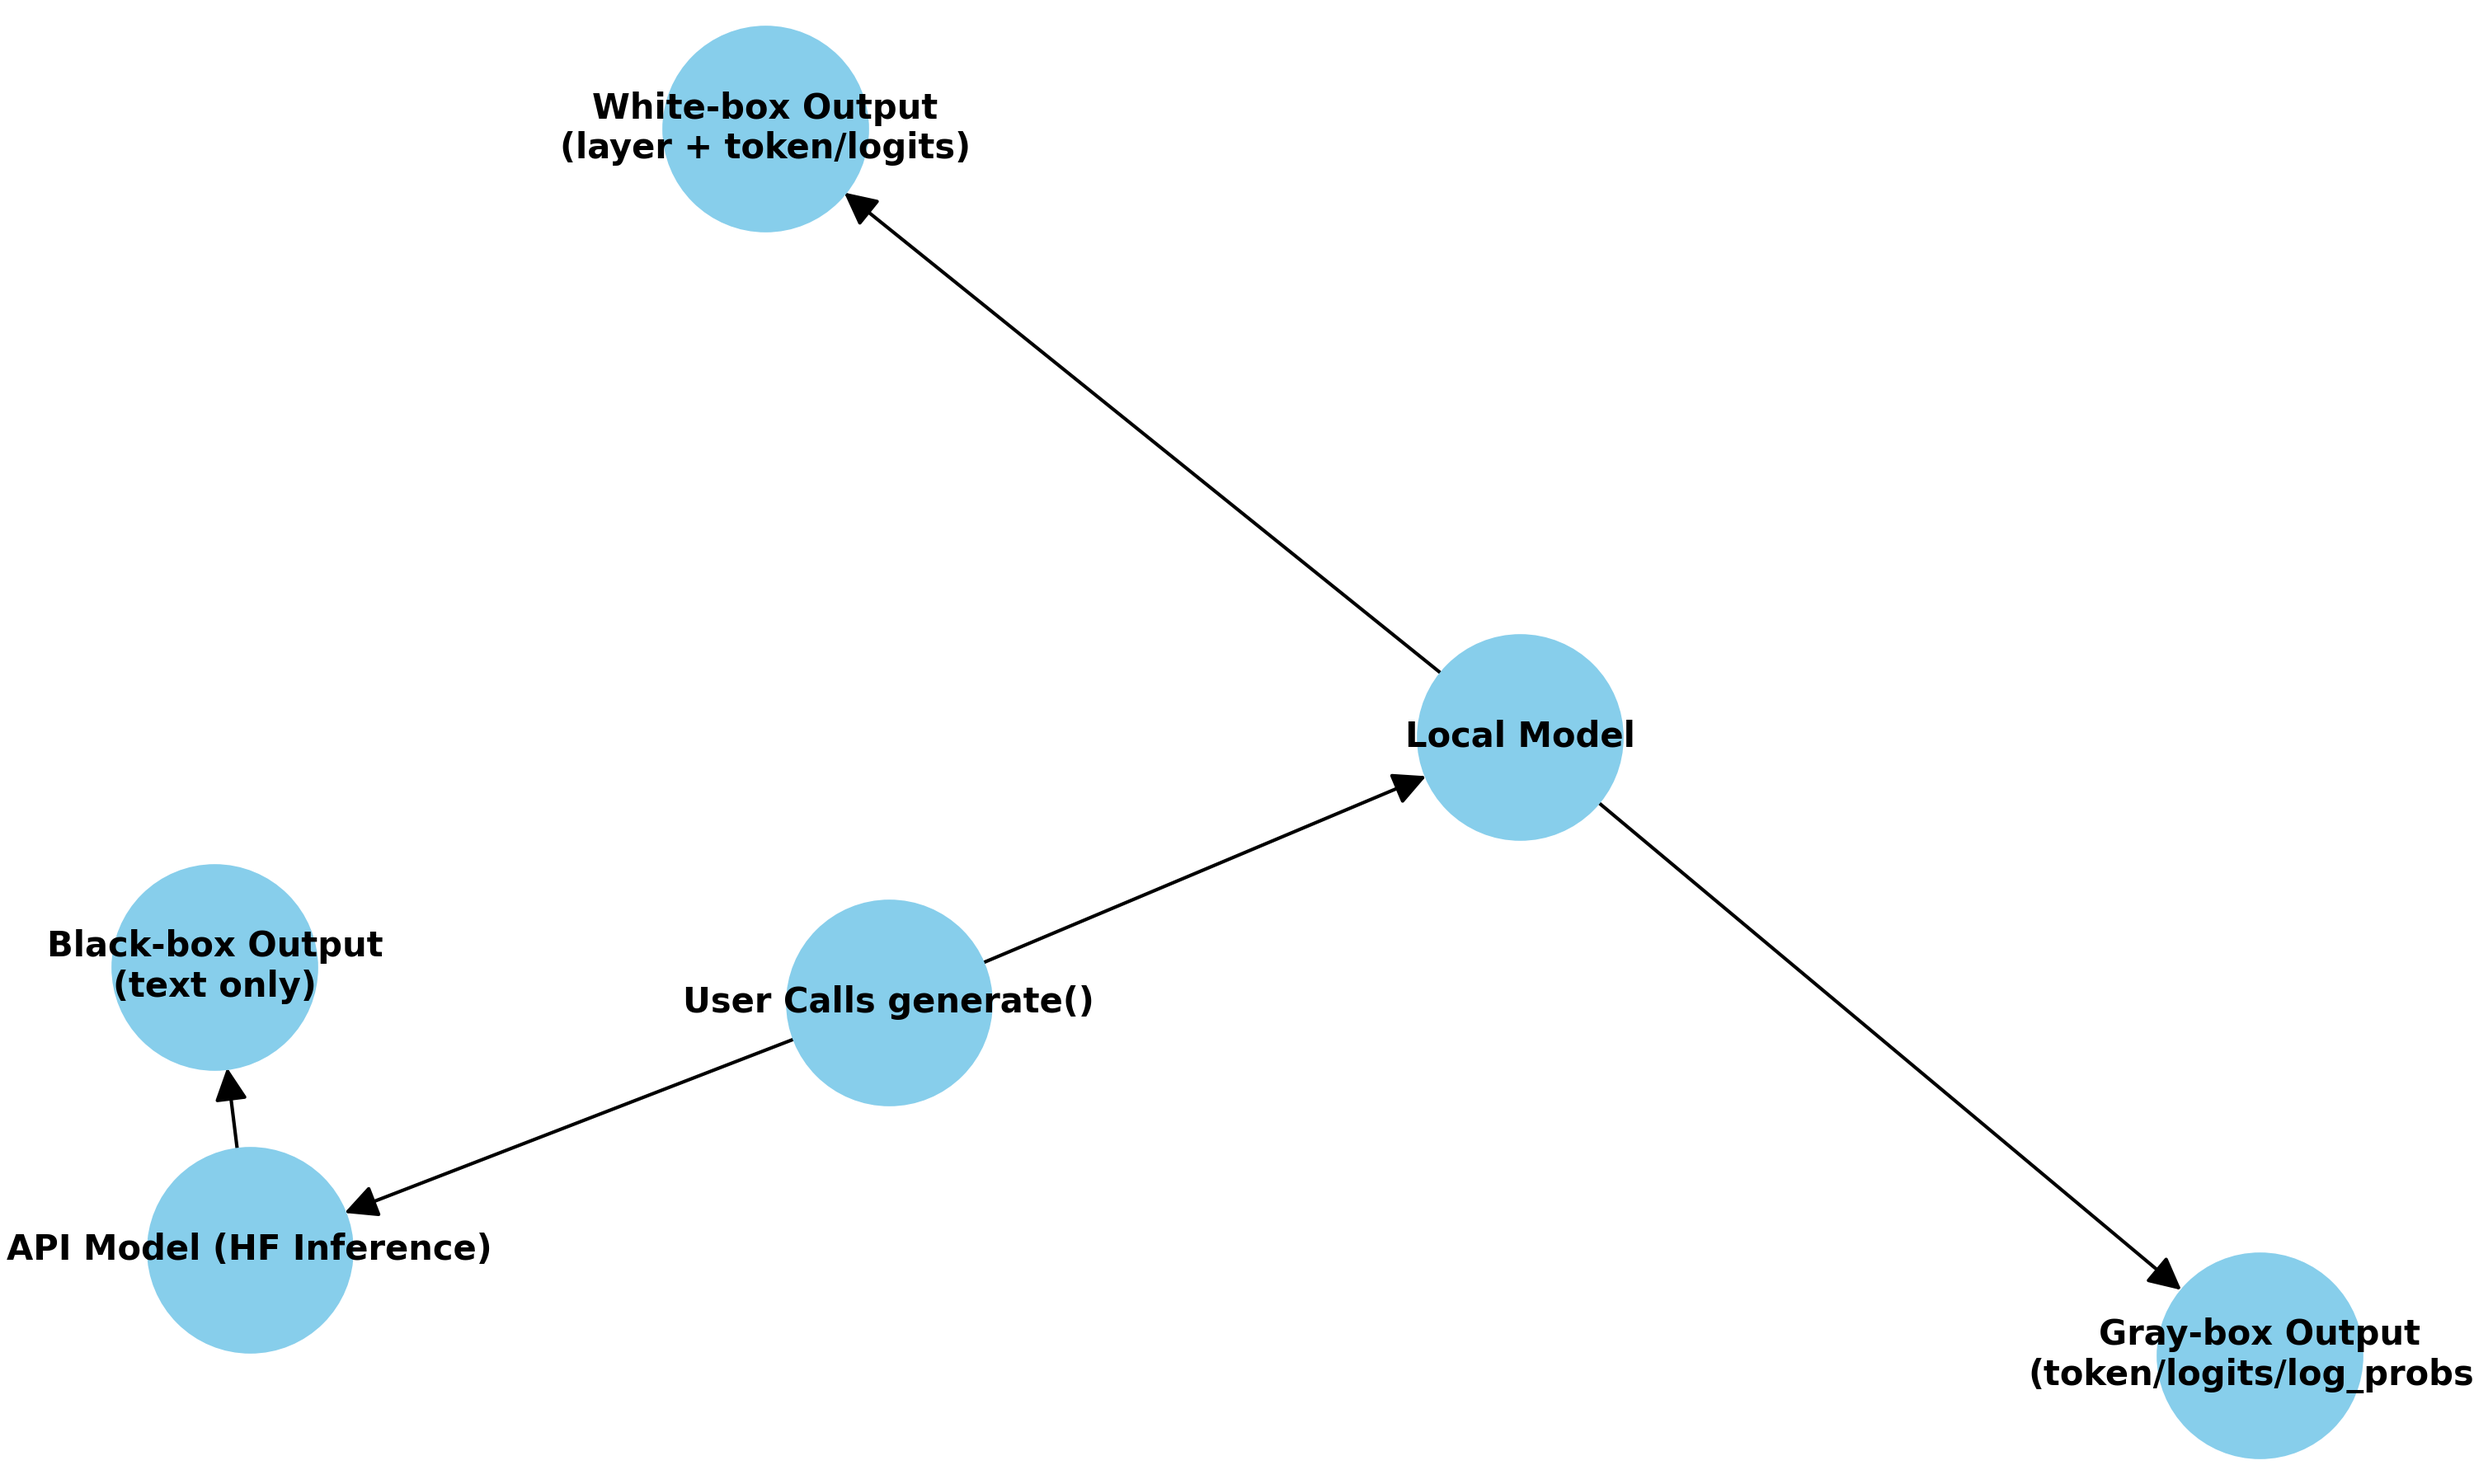
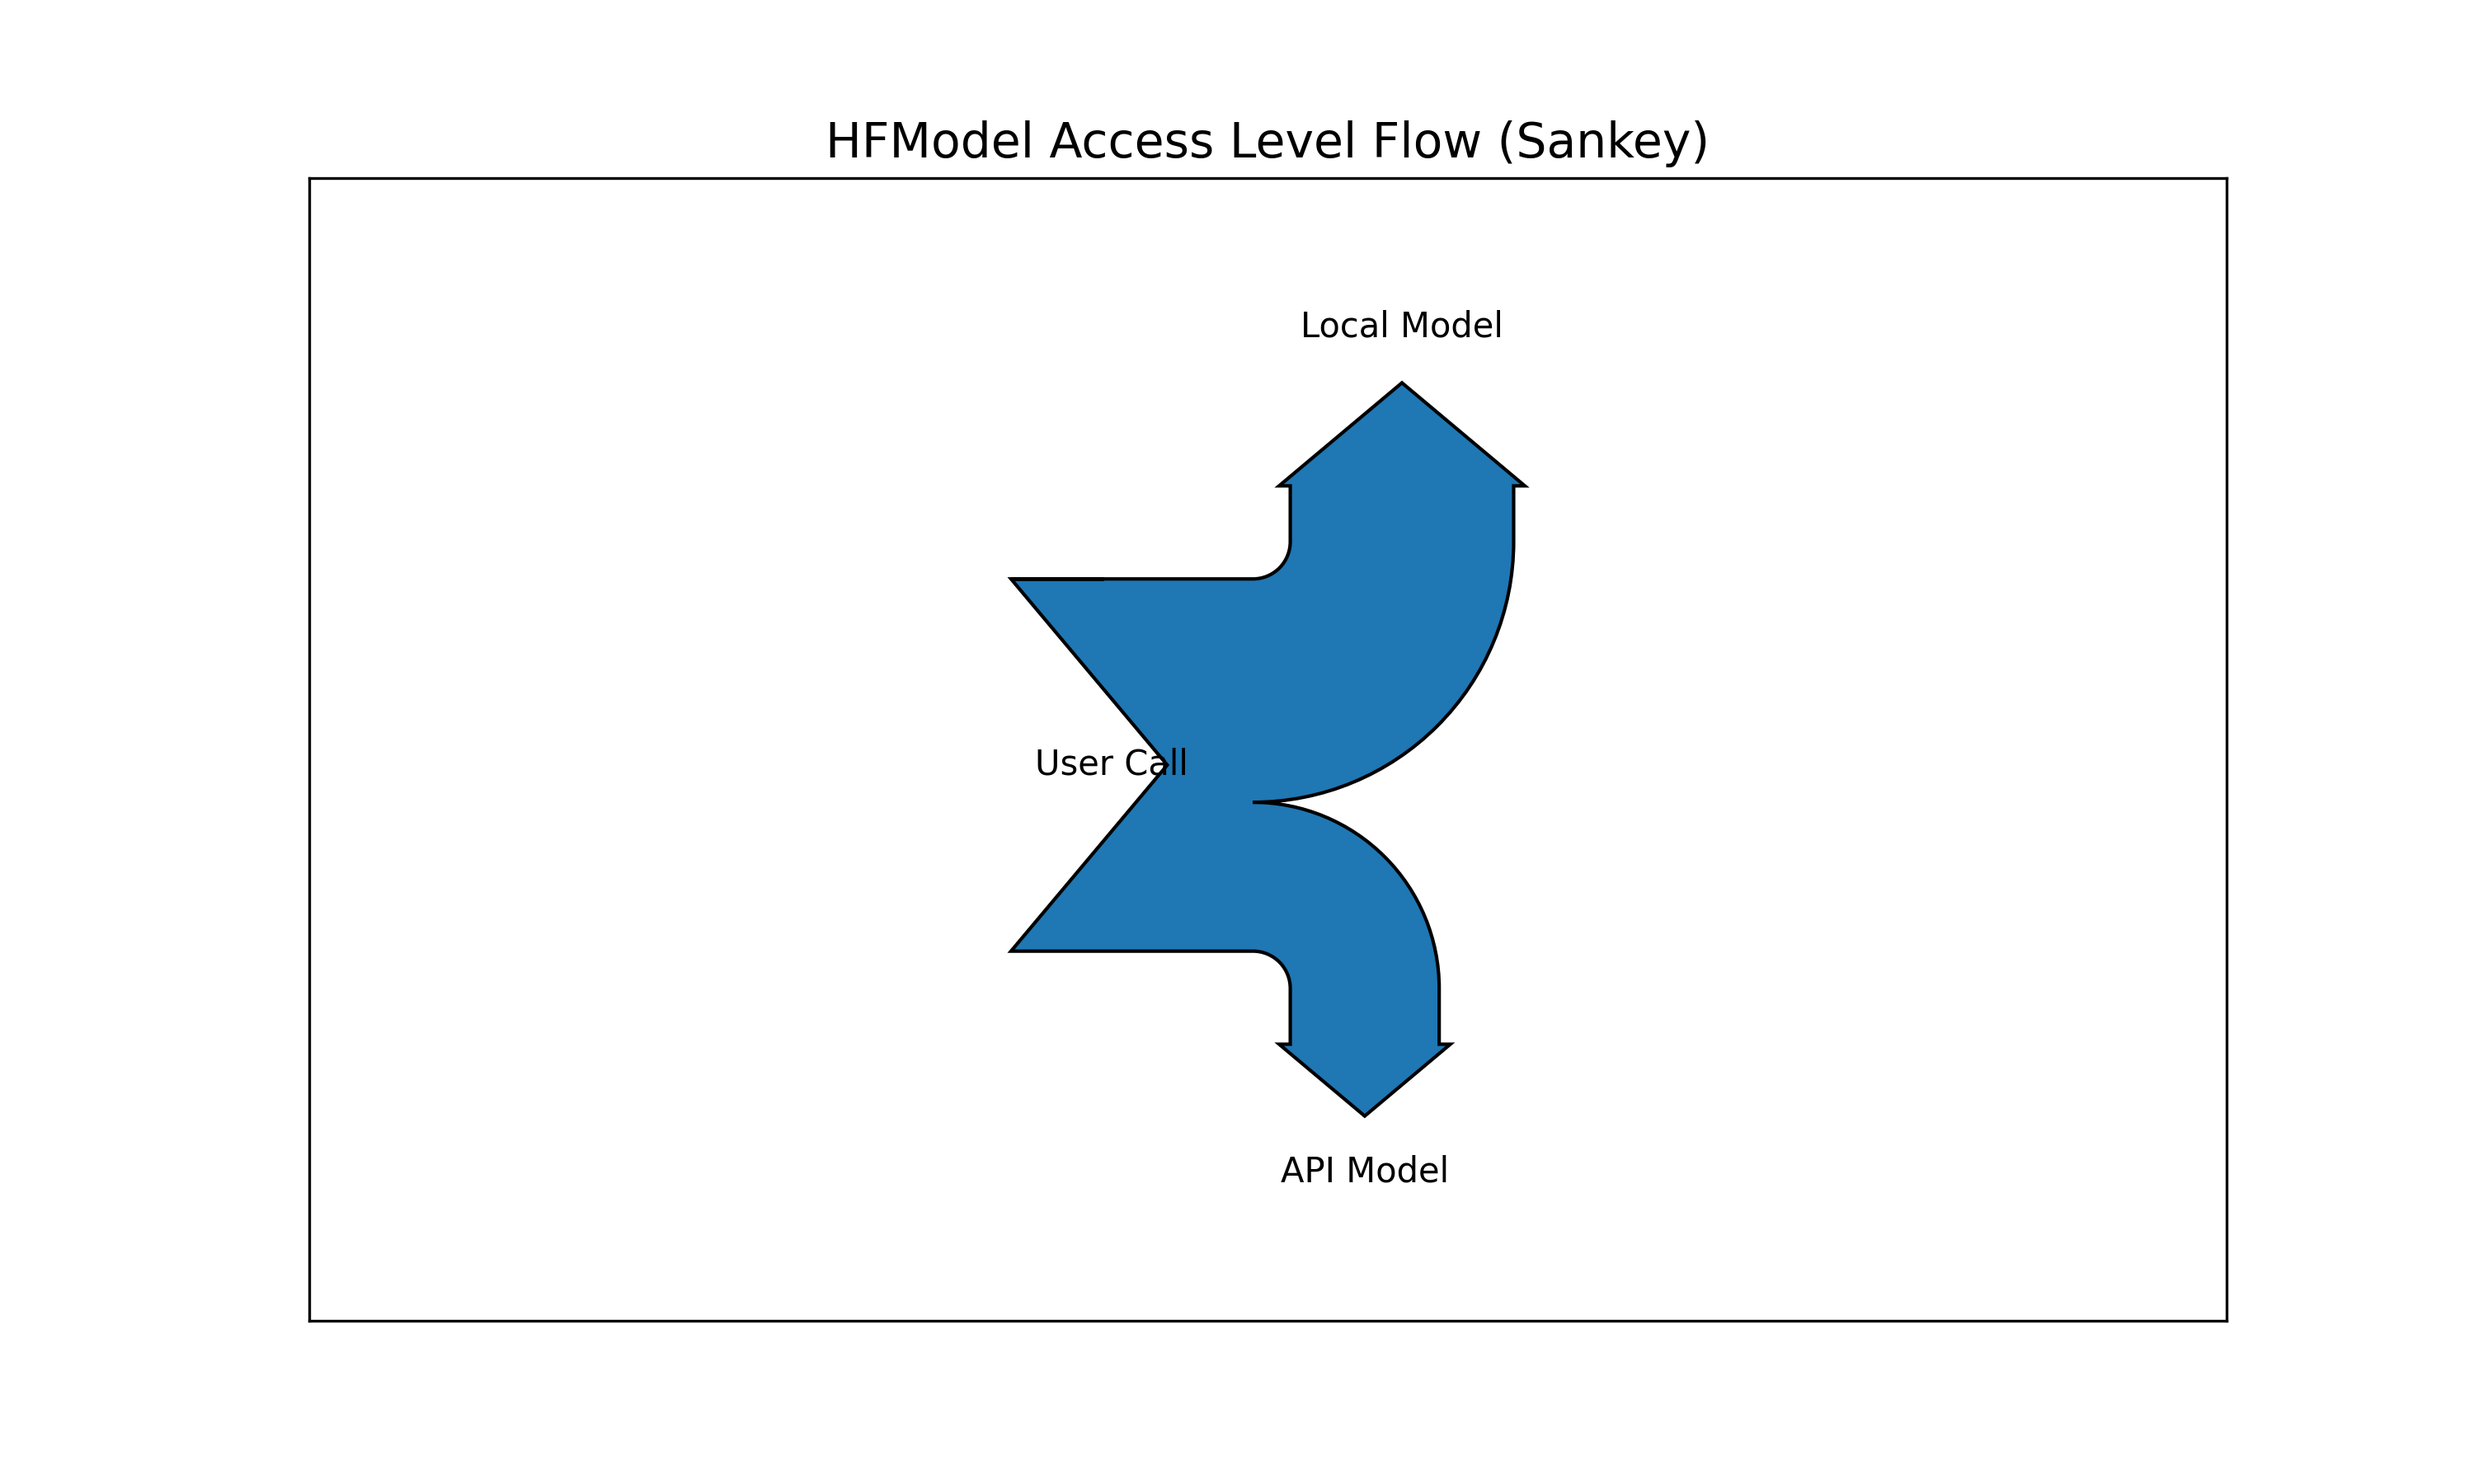
istatistiksel grafik oluşturma eklendi

diff --git a/visualization/local_model_flow.py b/visualization/local_model_flow.py
@@ -1,40 +1,34 @@
-# local_model_flow.py
+import numpy as np
 import matplotlib.pyplot as plt
-import networkx as nx
+import seaborn as sns
 
 class LocalModelFlow:
-    def __init__(self, output_path="local_model_flow.png"):
-        self.output_path = output_path
+    def __init__(self, output_path_heat="local_model_heatmap.png", output_path_violin="local_model_violin.png"):
+        self.output_path_heat = output_path_heat
+        self.output_path_violin = output_path_violin
 
     def generate(self):
-        G = nx.DiGraph()
-        
-        G.add_node("Prompt Text")
-        G.add_node("Tokenizer")
-        G.add_node("Token IDs")
-        G.add_node("Local Model (Causal LM)")
-        G.add_node("Output Sequences")
-        G.add_node("Logits per Step")
-        G.add_node("Log Probs per Step")
-        G.add_node("ModelOutput Object")
-        
-        G.add_edges_from([
-            ("Prompt Text", "Tokenizer"),
-            ("Tokenizer", "Token IDs"),
-            ("Token IDs", "Local Model (Causal LM)"),
-            ("Local Model (Causal LM)", "Output Sequences"),
-            ("Local Model (Causal LM)", "Logits per Step"),
-            ("Logits per Step", "Log Probs per Step"),
-            ("Output Sequences", "ModelOutput Object"),
-            ("Log Probs per Step", "ModelOutput Object"),
-            ("Logits per Step", "ModelOutput Object"),
-            ("Token IDs", "ModelOutput Object")
-        ])
-        
-        pos = nx.spring_layout(G, seed=7)
-        plt.figure(figsize=(12,7))
-        nx.draw(G, pos, with_labels=True, node_size=4000, node_color='lightgreen', font_size=10, font_weight='bold', arrowsize=20)
-        plt.title("Local Model Token/Logit Flow", fontsize=14)
-        plt.savefig(self.output_path, dpi=300)
+        # Simüle edilmiş logit verisi: 10 token, 20 vocabulary
+        np.random.seed(42)
+        logits = np.random.randn(10, 20)
+
+        # Heatmap
+        plt.figure(figsize=(10,6))
+        sns.heatmap(logits, annot=True, fmt=".2f", cmap="viridis", cbar_kws={'label': 'Logit Score'})
+        plt.xlabel("Vocabulary ID")
+        plt.ylabel("Token Step")
+        plt.title("Local Model Logits Heatmap")
+        plt.savefig(self.output_path_heat, dpi=300)
         plt.close()
-        print(f"Local model flow diagram saved as {self.output_path}")
+        print(f"Local model heatmap saved as {self.output_path_heat}")
+
+        # Violin plot (log_probs distribution)
+        log_probs = np.exp(logits) / np.exp(logits).sum(axis=1, keepdims=True)
+        plt.figure(figsize=(10,6))
+        sns.violinplot(data=log_probs, palette="coolwarm")
+        plt.xlabel("Vocabulary ID")
+        plt.ylabel("Probability")
+        plt.title("Local Model Token Probabilities (Violin)")
+        plt.savefig(self.output_path_violin, dpi=300)
+        plt.close()
+        print(f"Local model violin plot saved as {self.output_path_violin}")

diff --git a/visualization/api_model_flow.py b/visualization/api_model_flow.py
@@ -1,29 +1,39 @@
 # api_model_flow.py
 import matplotlib.pyplot as plt
-import networkx as nx
+import numpy as np
+import pandas as pd
+import seaborn as sns
 
 class ApiModelFlow:
-    def __init__(self, output_path="api_model_flow.png"):
-        self.output_path = output_path
+    def __init__(self, output_path_bar="api_model_bar.png", output_path_line="api_model_line.png"):
+        self.output_path_bar = output_path_bar
+        self.output_path_line = output_path_line
 
     def generate(self):
-        G = nx.DiGraph()
-        
-        G.add_node("Prompt Text")
-        G.add_node("API Call (HF Inference)")
-        G.add_node("Generated Text Only")
-        G.add_node("ModelOutput Object")
-        
-        G.add_edges_from([
-            ("Prompt Text", "API Call (HF Inference)"),
-            ("API Call (HF Inference)", "Generated Text Only"),
-            ("Generated Text Only", "ModelOutput Object")
-        ])
-        
-        pos = nx.spring_layout(G, seed=15)
-        plt.figure(figsize=(10,5))
-        nx.draw(G, pos, with_labels=True, node_size=3500, node_color='orange', font_size=10, font_weight='bold', arrowsize=20)
-        plt.title("API Model Flow (Black-box)", fontsize=14)
-        plt.savefig(self.output_path, dpi=300)
+        # Simüle edilmiş token frekansı
+        token_ids = np.random.randint(0, 20, size=100)
+        token_counts = pd.Series(token_ids).value_counts().sort_index()
+
+        # Bar chart
+        plt.figure(figsize=(10,6))
+        sns.barplot(x=token_counts.index, y=token_counts.values, palette="magma")
+        plt.xlabel("Token ID")
+        plt.ylabel("Frequency")
+        plt.title("API Model Generated Token Frequencies")
+        plt.savefig(self.output_path_bar, dpi=300)
         plt.close()
-        print(f"API model flow diagram saved as {self.output_path}")
+        print(f"API model bar chart saved as {self.output_path_bar}")
+
+        # Line chart (simüle edilmiş temperature vs entropy)
+        temperatures = np.linspace(0.1, 2.0, 10)
+        entropy = np.log(temperatures + 1) + np.random.rand(10)*0.1
+
+        plt.figure(figsize=(8,5))
+        plt.plot(temperatures, entropy, marker='o', linestyle='-', color='teal')
+        plt.xlabel("Temperature")
+        plt.ylabel("Entropy")
+        plt.title("Temperature vs Entropy (Simulated)")
+        plt.grid(True)
+        plt.savefig(self.output_path_line, dpi=300)
+        plt.close()
+        print(f"API model line chart saved as {self.output_path_line}")

diff --git a/visualization/access_flow_diagram.py b/visualization/access_flow_diagram.py
@@ -1,31 +1,20 @@
 # access_flow_diagram.py
 import matplotlib.pyplot as plt
-import networkx as nx
+from matplotlib.sankey import Sankey
+
 
 class AccessFlowDiagram:
     def __init__(self, output_path="access_flow.png"):
         self.output_path = output_path
 
     def generate(self):
-        G = nx.DiGraph()
-        
-        G.add_node("User Calls generate()")
-        G.add_node("Local Model")
-        G.add_node("API Model (HF Inference)")
-        G.add_node("Black-box Output\n(text only)")
-        G.add_node("Gray-box Output\n(token/logits/log_probs)")
-        G.add_node("White-box Output\n(layer + token/logits)")
-        
-        G.add_edge("User Calls generate()", "Local Model")
-        G.add_edge("User Calls generate()", "API Model (HF Inference)")
-        G.add_edge("Local Model", "Gray-box Output\n(token/logits/log_probs)")
-        G.add_edge("Local Model", "White-box Output\n(layer + token/logits)")
-        G.add_edge("API Model (HF Inference)", "Black-box Output\n(text only)")
-        
-        pos = nx.spring_layout(G, seed=42)
-        plt.figure(figsize=(10,6))
-        nx.draw(G, pos, with_labels=True, node_size=3500, node_color='skyblue', font_size=10, font_weight='bold', arrowsize=20)
-        plt.title("HFModel Access Level Flow", fontsize=14)
+        fig = plt.figure(figsize=(10,6))
+        ax = fig.add_subplot(1,1,1, xticks=[], yticks=[])
+
+        sankey = Sankey(ax=ax, unit=None)
+        sankey.add(flows=[1, -0.6, -0.4], labels=['User Call','Local Model','API Model'], orientations=[0, 1, -1])
+        sankey.finish()
+        plt.title("HFModel Access Level Flow (Sankey)", fontsize=14)
         plt.savefig(self.output_path, dpi=300)
         plt.close()
         print(f"Access flow diagram saved as {self.output_path}")

diff --git a/visualization/visualization_manager.py b/visualization/visualization_manager.py
@@ -1,8 +1,10 @@
-# visualization_manager.py
 from class_diagram import ClassDiagram
 from access_flow_diagram import AccessFlowDiagram
 from local_model_flow import LocalModelFlow
 from api_model_flow import ApiModelFlow
+
+
+
 
 class VisualizationManager:
     def __init__(self):
@@ -16,4 +18,4 @@ class VisualizationManager:
     def generate_all(self):
         for diagram in self.diagrams:
             diagram.generate()
-        print("All diagrams generated successfully!")
+        print("All visualization diagrams generated successfully!")

diff --git a/visualization/main.py b/visualization/main.py
@@ -1,0 +1,10 @@
+# main.py
+from visualization import VisualizationManager
+
+def test_visualization():
+    manager = VisualizationManager()
+    manager.generate_all()
+    print("Test completed: All diagrams generated successfully!")
+
+if __name__ == "__main__":
+    test_visualization()
